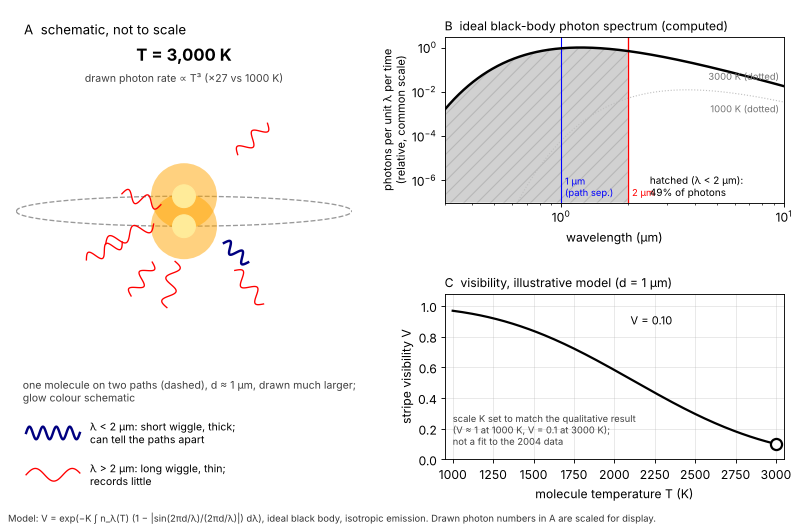
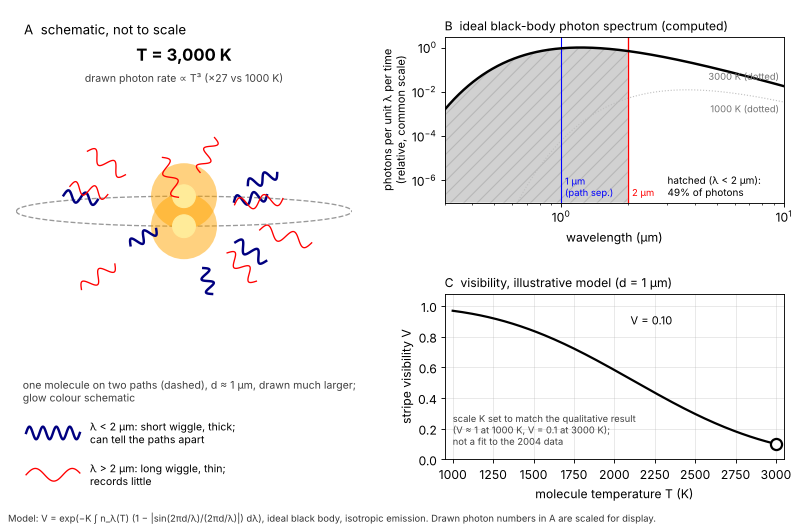
Explanation B (which-path): animations for each experiment
Claude-Session: https://claude.ai/code/session_011EeWx5AEdppYiarvRbDBmd

diff --git a/work/20261008-142932-which-path-decoherence/answer-B.html b/work/20261008-142932-which-path-decoherence/answer-B.html
@@ -27,12 +27,15 @@ strong { color:var(--accent); }
 <p>Nobody has to build a which-path detector: a single photon bouncing off an atom, or a single gas atom brushing past a molecule, writes the record by itself, and that, done by the whole surroundings all the time, is decoherence. Last time the rule was that two parts of the amplitude can only cancel where they end in the same final situation, and that a recorder whose two end states can be told apart puts them in different situations. The experiments below use no recorder at all. The "recorder" is a photon that flies off, a gas atom that drifts away, a flash of heat radiation: things nobody built, nobody reads, and in practice nobody can catch again. The models then have to say what that does to the stripes, and the honest ending is that they say why the stripes go, and not why one dot appears.</p>
 <p><strong>Experiment 1: one photon makes one record (1995).</strong> Set-up: a beam of sodium atoms passes through three identical gratings in a row (slits about 200 nanometres apart). The geometry is different from last time's far screen and from the near-field one of Experiment 2: the first grating splits each atom's wave into two paths that separate slowly, until by the middle grating they are a few hundredths of a millimetre apart, physically side by side; the second grating bends them back together; and in the plane of the third they overlap again and form stripes with the grating's own spacing. The third grating is a mask with that same spacing, so sliding it sideways makes the count of atoms that get through rise and fall (a hot wire ionizes and counts them); that is how the stripes are read. Just after the first grating, where the two paths are still less than a couple of micrometres apart, a thin laser beam tuned to the atoms' yellow resonance (wavelength 589 nanometres) crosses them; atoms absorb photons from the beam and re-emit them in random directions, about one photon per atom on average (the number varies from atom to atom, and some scatter none). Sliding the laser along the beam sets the separation $d$ of the two paths at the moment of scattering, from zero to about two photon wavelengths. Nobody detects the scattered photons. Seen: atoms keep arriving at every laser position, but among those that arrive the stripes' visibility (how deep the stripes are relative to the average: 1 when the dark stripes reach zero, 0 when there are no stripes) falls as $d$ grows, is lowest at separations around half to three-quarters of a photon wavelength, and at larger separations comes partly back and fades again, following the curve set by the overlap of the photon's two possible outgoing waves (computed with the atom's real emission pattern). With exactly one photon per atom the visibility would follow that overlap curve itself, with its zero near half a wavelength; the atoms that scattered no photon keep their full stripes, which lifts the minimum above zero and, in the model, moves it a little beyond half a wavelength. Regained: the atom's sideways recoil is fixed by the direction the photon left in (conservation of momentum) and shifts where the atom arrives, so the arriving atoms can be sorted by recoil; within each sorted group the stripes come back (fully, for a perfect sorting), shifted sideways by an amount set by the recoil, and all the groups together add up to the faded total.</p>
 <p><img alt="Computed for a photon emitted equally in all directions (an idealization) and for exactly one photon per atom: the stripe visibility relative to its value with the laser off, against the separation d of the two paths at the moment of scattering, in units of the photon's wavelength λ, V = |sin(2πd/λ) / (2πd/λ)|. The first zero is at d = λ/2; a weak revival near d ≈ 0.72λ reaches about 0.22, and the later bumps are smaller. Shaded: for d &lt; λ/2 the visibility stays above 0, because a photon whose wavelength is longer than twice the separation cannot fully tell the paths apart. Only the ratio d/λ matters. Inset (schematic, not to scale): the two atom paths a distance d apart, the laser crossing both, and a photon leaving from one path or the other. Two things the plot leaves out: between d = λ/2 and d = λ the overlap is negative, so stripes revived by a single photon are shifted sideways by half a stripe spacing (the plot shows only the size of the overlap); and in the experiment the number of photons per atom varied around a mean of about one, so the atoms that scattered none kept full stripes, which keeps the minimum of the total above zero and, in the model, moves it a little beyond λ/2, to where the one-photon overlap is most negative (about 0.7λ in this isotropic case). An atom's real emission pattern (a dipole pattern) changes the details but not the half-wavelength scale; the 1995 measurements ran from d = 0 to about 2λ." src="figures/b-one-photon.png" /></p>
+<p><img alt="Animation. Experiment 1 (Chapman et al., 1995) as the laser slides along the beam, so the separation d of the two paths at the moment of scattering grows from 0 to 2 photon wavelengths λ. Panel A is a schematic, not to scale: in the real set-up d at the laser is at most about 1.2 µm, while at the middle grating the paths are tens of µm apart. Each new atom scatters a random number of photons (drawn from a Poisson distribution with mean 1, so some atoms scatter none and some several), and nobody detects them. Panels B and C are computed from a simple model: emission equally likely in all directions (the real atom has a dipole pattern, which changes the details but not the half-wavelength scale); each photon multiplies the stripes by the signed overlap c(d) = sin(2πd/λ)/(2πd/λ); the photon number is Poisson with mean 1, which gives a visibility for all arriving atoms of exp(−(1 − c(d))); and the visibility with the laser off is set to 1. The common kick from absorbing laser photons is left out. What to notice: (1) atoms keep arriving and the mean count stays the same; only the stripe depth changes. (2) The total visibility (black) is lowest, about 0.30, at d ≈ 0.72λ, a little beyond λ/2, where the one-photon overlap is most negative. It comes partly back, to about 0.42 near d ≈ 1.23λ, then dips again (about 0.34 near 1.74λ) and settles towards e⁻¹ ≈ 0.37, the share of atoms that scattered no photon and so keep full stripes. It never reaches zero. (3) In panel B, the atoms that scattered exactly one photon (red dashed) have stripes shifted by half a period whenever c(d) is negative (between λ/2 and λ, and again between 1.5λ and 2λ). The total for all atoms is never shifted, because exp(−(1 − c)) is always positive. Only the ratio d/λ matters." src="figures/b-anim-one-photon.gif" /></p>
 <p><em>Sources:</em> Chapman et al., <em>Phys. Rev. Lett.</em> 75, 3783 (1995), "Photon scattering from atoms in an atom interferometer: coherence lost and regained": the experiment; Feynman, Leighton &amp; Sands, <em>The Feynman Lectures on Physics</em>, Vol. III (2010), ch. 1, §1-6 "Watching the electrons": the thought experiment this realizes, including the case of light too long in wavelength to tell the holes apart; Schlosshauer, <em>Decoherence and the Quantum-to-Classical Transition</em> (2007), ch. 6 (experimental observations of decoherence, section on matter-wave interferometry).</p>
 <p><strong>Experiment 2: a gas writes records at a rate you can dial (2003).</strong> Set-up: C70 fullerene molecules (70 carbon atoms, about 840 times the mass of a hydrogen atom) from a hot oven fly through three identical gold gratings with slits about one micrometre apart. The gratings are set at the particular spacing (a few tens of centimetres) at which the molecular wave forms stripes in the plane of the third grating, with the grating's own spacing; the stripes are read by sliding that grating. This "Talbot–Lau" arrangement is a near-field one: the stripes exist at that distance, not on a far screen, and the pairs of paths that make them are about a micrometre apart. Argon (and, in other runs, other gases) is let into the vacuum chamber a little at a time, raising the pressure through a range of a few millionths of a millibar. Nobody detects the gas atoms. Seen: as the pressure rises, fewer molecules reach the detector, and among those that do arrive the stripes fade: the visibility falls exponentially with pressure (each equal step in pressure cuts it by the same factor), in agreement with the rate predicted by Model 1 below. The theory's reading, consistent with the data, is that a single collision is enough to wipe out a molecule's stripes: a gas atom at room temperature has a wavelength of a few hundredths of a nanometre, tens of thousands of times shorter than the micrometre separation, so even a glancing collision, which deflects the heavy molecule only slightly, sends the gas atom off in a state that differs, depending on which path the molecule was on, by far more than the atom's wavelength can blur.</p>
 <p><img alt="Left, computed: stripe visibility relative to its no-collision value, on a logarithmic vertical axis (each gridline is ten times the one below), against the number of scattering events n from 0 to 6, for a per-event overlap c of 0.95, 0.5 and 0.02: V = cⁿ, so the points lie on straight lines; with c = 0.02, six events leave under one ten-billionth of the stripes. Right, computed: the average visibility against gas pressure p in units of the pressure p₀ at which it has fallen to 1/e ≈ 0.37 (dotted line): exp(−p/p₀). The number of collisions a given molecule suffers is random (independent collisions), with a mean proportional to the pressure; with per-collision overlap c the average visibility is exp(−(mean number) × (1 − c)), still an exponential in pressure. No data are drawn; the 2003 argon measurements followed a curve of this shape over a pressure range of a few millionths of a millibar. Notice: many weak recorders do the same as one strong one, and &quot;exponential in pressure&quot; is the fingerprint of independent records multiplying." src="figures/b-many-records.png" /></p>
+<p><img alt="Animation. Experiment 2 (2003), animated: argon is let in step by step, from pressure 0 to 3 p₀ in steps of 0.5 p₀, where p₀ is the pressure at which the stripe visibility has fallen to 1/e. Panel A is a schematic, not to scale. It shows C70 molecules, drawn as dots, flying from the oven through three gratings to the detector. The number of grey argon dots drawn is proportional to the pressure. A star marks a collision. After a collision a molecule either keeps going (open circle: it now carries a record and its stripes are gone) or is knocked out of the beam (cross). The stripes themselves can't be seen in flight. Panels B and C are computed from one stated model. Collisions are independent, so their number is random, with a mean proportional to the pressure (2 per molecule at p₀). One collision is a complete record (overlap 0), and that is the theory's reading of the experiment. In an illustrative assumption, not a measured value, half of all collisions knock the molecule out. With these rules the visibility among the molecules that arrive is exp(−p/p₀), and the arriving fraction also falls as exp(−p/p₀). Panel B shows the count behind the third grating as it is slid sideways, idealized as a sinusoid with period 1 µm and perfect stripes at zero pressure (the real zero-pressure visibility was lower). The solid curve is the actual count. The dash-dot curve divides out the lost molecules, so you can see that the stripes fade among the molecules that do arrive, not just because fewer arrive. Panel C plots visibility against pressure on a logarithmic vertical axis, where the exponential is a straight line: each equal pressure step cuts the visibility by the same factor (about 0.61 per 0.5 p₀). No data are drawn. What to notice: in panel A the arriving molecules that were never hit (filled dots) become rare as the open circles take over, and that fraction is exactly what panel B's stripe depth measures. Nobody detects the gas atoms." src="figures/b-anim-gas.gif" /></p>
 <p><em>Sources:</em> Hornberger et al., <em>Phys. Rev. Lett.</em> 90, 160401 (2003), "Collisional decoherence observed in matter wave interferometry": the experiment; Schlosshauer, <em>Decoherence and the Quantum-to-Classical Transition</em> (2007), ch. 3 "Decoherence Is Everywhere": the scattering theory the data were compared with; Joos et al., <em>Decoherence and the Appearance of a Classical World in Quantum Theory</em>, 2nd ed. (2003), ch. 3.</p>
 <p><strong>Experiment 3: a hot molecule writes its own records (2004), and a merely hot one does not (1999).</strong> Set-up: the same C70 interferometer in good vacuum, with a laser beam crossing the molecular beam repeatedly before the first grating to heat the molecules; the laser power sets their internal temperature, from roughly 1,000 K to about 3,000 K (the temperature is inferred from the laser power with a model of how the molecules absorb and radiate, so these numbers are approximate). A hot molecule glows faintly, like an ember: it emits thermal photons now and then, more of them and at shorter wavelengths the hotter it is. Nobody detects those photons. Seen: at about 1,000 K the stripes are as strong as with the heating laser off; as the temperature is raised the visibility falls, and near 3,000 K the stripes are nearly gone. The reading: a photon that leaves from one path or the other is a record only if its wavelength is short enough to tell the paths apart. A photon with a wavelength much longer than the path separation leaves two outgoing waves that overlap almost completely and records almost nothing; one with a wavelength shorter than about twice the separation removes most of the stripes (at least about three-quarters of them in the idealized model, all of them at particular ratios): the same half-wavelength rule as in Experiment 1. At 1,000 K hardly any emitted photons are that short, and few are emitted at all; by 3,000 K the molecule emits visible and near-infrared photons during its flight, each one a record, and enough of them to wipe out the stripes. Contrast: in 1999, C60 molecules straight from an oven at about 900 K gave clear interference stripes when diffracted by a grating whose slits were 100 nanometres apart. Internal heat by itself is not a record of anything; it becomes one only when something leaves the molecule carrying its position.</p>
 <p><img alt="Left, computed for emission equally likely in all directions (an idealization): the overlap of the two possible outgoing waves of one emitted photon, which equals the fraction of the stripe visibility that survives it, against the photon's wavelength divided by the path separation, λ/d, on a logarithmic axis from 0.2 to 50: |sin(2πd/λ) / (2πd/λ)|. Marked: λ/d = 2 (overlap 0) and λ/d = 20 (overlap about 0.98). In the dark band (λ/d &lt; 2) the overlap is not always zero but never exceeds about 0.22 (the bumps are the revivals of the previous figure), so each such photon removes at least about three-quarters of the stripes; in the light band (λ/d &gt; 10) the photon records almost nothing. Right, the ideal black-body shape, which a molecule's real emission only roughly follows: photons emitted per unit wavelength per unit time, in relative units on one common scale, for 1,000 K, 2,000 K and 3,000 K, against wavelength from 0.3 to 10 micrometres; both axes are logarithmic, which is why the 1,000 K curve, far lower than the others, is still visible. The blue line is the 1-micrometre path separation and the red line the 2-micrometre &quot;half-wavelength&quot; limit. As the temperature rises the emission both grows and shifts to shorter wavelengths: for the ideal black body the share of photons shorter than 2 micrometres is about 2% at 1,000 K, 25% at 2,000 K and about half at 3,000 K, and the total grows too, so the rate of such photons rises about six-hundredfold from 1,000 K to 3,000 K. The 2004 data (visibility against inferred temperature) are not drawn. Notice: heat alone does nothing; photons that leave the molecule with wavelengths shorter than about twice the path separation are what fades the stripes." src="figures/b-hot-molecule.png" /></p>
+<p><img alt="Animation. Experiment 3 (2004), animated: the molecule's temperature rises from 1,000 K to 3,000 K. Panel A is a schematic and not to scale. One molecule travels on two paths about 1 µm apart (drawn much larger), and it glows more strongly as it heats up; the glow colour is only for illustration. It gives off photons, and each photon's wavelength is drawn from the ideal black-body spectrum at the current temperature. Photons shorter than 2 µm are drawn as thick, short, dark-blue wiggles. Longer ones are drawn as thin, long, red wiggles. The number of photons drawn grows as T³, the total black-body photon rate (27 times more at 3,000 K than at 1,000 K), but it is scaled for display: a real molecule emits only a few photons during its flight. Panel B is computed: the ideal black-body photon-number spectrum at the current temperature, on log axes and on one common scale, with the dotted 1,000 K and 3,000 K curves for reference, a blue line at the 1 µm path separation and a red line at the 2 µm &quot;half-wavelength&quot; limit. The hatched part is the photons shorter than 2 µm: about 2% of them at 1,000 K, 25% at 2,000 K and 49% at 3,000 K, and their total rate grows about 600-fold. Panel C uses an illustrative model, not a fit to the 2004 data. It sets visibility V = exp(−K ∫ n_λ(T)(1 − |sin(2πd/λ)/(2πd/λ)|) dλ), with d = 1 µm, an ideal black body, emission equally likely in every direction, and photons emitted independently. The scale K is chosen so that V = 0.10 at 3,000 K, which gives V ≈ 0.97 at 1,000 K and about 0.58 at 2,000 K. A real molecule's emission only roughly follows the black-body shape, and the temperatures in the experiment are inferred, so only the trend is meaningful. What to notice: the stripes stay at 1,000 K even though the molecule is hot, because almost none of its photons are short enough to tell the paths apart. They fade as the hatched short-wavelength part of the spectrum grows, and in panel A the dark-blue &quot;record&quot; photons become common." src="figures/b-anim-hot-molecule.gif" /></p>
 <p><em>Sources:</em> Hackermüller et al., <em>Nature</em> 427, 711 (2004), "Decoherence of matter waves by thermal emission of radiation": the experiment; Arndt et al., <em>Nature</em> 401, 680 (1999): C60 interference straight from the oven; Feynman, Leighton &amp; Sands, <em>The Feynman Lectures on Physics</em>, Vol. III (2010), ch. 1, §1-6 "Watching the electrons": why long-wavelength light leaves the stripes alone; Schlosshauer, <em>Decoherence and the Quantum-to-Classical Transition</em> (2007), ch. 6 (experimental observations, section on matter-wave interferometry).</p>
 <p><strong>An estimate, not an experiment: a grain of dust.</strong> No one has put a dust grain through two slits, so this is a calculation with stated assumptions, first made by Joos and Zeh in 1985. Take a grain ten micrometres across and ask how long stripes between two positions one grain-width apart would survive. Each air molecule or photon that scatters off the grain is a recorder like the ones above, and whether one scattering resolves ten micrometres depends on its wavelength. Air molecules (wavelength a few hundredths of a nanometre) and sunlight (about half a micrometre) resolve it easily, so one scattering is a complete record and the fading time is just the time between scatterings. In sea-level air at room temperature a ten-micrometre grain is struck about $10^{18}$ times per second (counting impacts on its surface), so the stripes would be gone within about a billionth of a billionth of a second; in full sunlight with no air, about $4 \times 10^{11}$ photons per second hit it, and the time is a few millionths of a millionth of a second. Even the faint microwave glow left over from the big bang does it, in about forty seconds for this grain: its millimetre wavelength is far too long for any one photon to resolve ten micrometres, almost all of its photons pass a grain that small without scattering at all (in the model, about ten a second do scatter), and each one that scatters makes only a few thousandths of a full record (about one part in four hundred), but the small records multiply up: a few hundred of them, forty seconds' worth, add up to a full one. (The often-quoted "about a second" is Joos and Zeh's figure for a grain twice as wide, which scatters millimetre waves far more strongly.) Assumptions: a grain of that size in those surroundings, scatterings counted as independent, and the long-wavelength rule (fading rate growing as the square of the separation) used only where the wavelength is longer than the separation; beyond that the rate stops growing and simply equals the scattering rate. These numbers are rough, factors of ten either way, and they are why nobody expects to see a dust grain's stripes.</p>
 <p><img alt="Computed for scatterers that scatter equally in all directions (an idealization), with their wavelengths spread ±30% around λ to smooth the oscillations: the time for stripes between two positions Δx apart to fade (to 1/e of their strength), in units of the average time between scattering events, against Δx/λ, both axes logarithmic. On the flat part (Δx above about λ/2) one scattering event is a complete record and the fading time is one event time; on the sloped part each event records only a little and the time grows as (λ/Δx)² (dashed reference line). Two details to notice: the solid curve runs about 9% below the dashed line because the wavelength spread was averaged in, and it dips to about 0.87 event times near Δx ≈ 0.7λ before settling at 1. Marks for a ten-micrometre separation: sunlight at Δx/λ ≈ 20, air molecules far off the right edge at ≈ 5 × 10⁵ (arrow), and the microwave background at Δx/λ ≈ 0.02 (the mark is at 0.019, where the curve reads about 380 events, the number the full calculation needs: about ten scatterings per second for forty seconds). For 1-mm waves the naive position would be Δx/λ = 0.01, where the curve reads about 1,400; the full calculation needs fewer events for two reasons this one-wavelength, one-direction curve leaves out: the shorter waves in the microwave glow do most of the scattering (their effective wavelength is about 0.7 mm), and its photons come from all directions, which doubles what each scattering records. The times in the text are the number of events multiplied by each environment's own time between scattering events; for the microwave background that time (about a tenth of a second) is set by how rarely a millimetre wave scatters off a ten-micrometre grain, not by how often photons reach it." src="figures/b-dust-grain.png" /></p>

diff --git a/work/20261008-142932-which-path-decoherence/final-B.md b/work/20261008-142932-which-path-decoherence/final-B.md
@@ -6,17 +6,23 @@ Nobody has to build a which-path detector: a single photon bouncing off an atom,
 
 ![Computed for a photon emitted equally in all directions (an idealization) and for exactly one photon per atom: the stripe visibility relative to its value with the laser off, against the separation d of the two paths at the moment of scattering, in units of the photon's wavelength λ, V = |sin(2πd/λ) / (2πd/λ)|. The first zero is at d = λ/2; a weak revival near d ≈ 0.72λ reaches about 0.22, and the later bumps are smaller. Shaded: for d < λ/2 the visibility stays above 0, because a photon whose wavelength is longer than twice the separation cannot fully tell the paths apart. Only the ratio d/λ matters. Inset (schematic, not to scale): the two atom paths a distance d apart, the laser crossing both, and a photon leaving from one path or the other. Two things the plot leaves out: between d = λ/2 and d = λ the overlap is negative, so stripes revived by a single photon are shifted sideways by half a stripe spacing (the plot shows only the size of the overlap); and in the experiment the number of photons per atom varied around a mean of about one, so the atoms that scattered none kept full stripes, which keeps the minimum of the total above zero and, in the model, moves it a little beyond λ/2, to where the one-photon overlap is most negative (about 0.7λ in this isotropic case). An atom's real emission pattern (a dipole pattern) changes the details but not the half-wavelength scale; the 1995 measurements ran from d = 0 to about 2λ.](figures/b-one-photon.png)
 
+![Animation. Experiment 1 (Chapman et al., 1995) as the laser slides along the beam, so the separation d of the two paths at the moment of scattering grows from 0 to 2 photon wavelengths λ. Panel A is a schematic, not to scale: in the real set-up d at the laser is at most about 1.2 µm, while at the middle grating the paths are tens of µm apart. Each new atom scatters a random number of photons (drawn from a Poisson distribution with mean 1, so some atoms scatter none and some several), and nobody detects them. Panels B and C are computed from a simple model: emission equally likely in all directions (the real atom has a dipole pattern, which changes the details but not the half-wavelength scale); each photon multiplies the stripes by the signed overlap c(d) = sin(2πd/λ)/(2πd/λ); the photon number is Poisson with mean 1, which gives a visibility for all arriving atoms of exp(−(1 − c(d))); and the visibility with the laser off is set to 1. The common kick from absorbing laser photons is left out. What to notice: (1) atoms keep arriving and the mean count stays the same; only the stripe depth changes. (2) The total visibility (black) is lowest, about 0.30, at d ≈ 0.72λ, a little beyond λ/2, where the one-photon overlap is most negative. It comes partly back, to about 0.42 near d ≈ 1.23λ, then dips again (about 0.34 near 1.74λ) and settles towards e⁻¹ ≈ 0.37, the share of atoms that scattered no photon and so keep full stripes. It never reaches zero. (3) In panel B, the atoms that scattered exactly one photon (red dashed) have stripes shifted by half a period whenever c(d) is negative (between λ/2 and λ, and again between 1.5λ and 2λ). The total for all atoms is never shifted, because exp(−(1 − c)) is always positive. Only the ratio d/λ matters.](figures/b-anim-one-photon.gif)
+
 *Sources:* Chapman et al., *Phys. Rev. Lett.* 75, 3783 (1995), "Photon scattering from atoms in an atom interferometer: coherence lost and regained": the experiment; Feynman, Leighton & Sands, *The Feynman Lectures on Physics*, Vol. III (2010), ch. 1, §1-6 "Watching the electrons": the thought experiment this realizes, including the case of light too long in wavelength to tell the holes apart; Schlosshauer, *Decoherence and the Quantum-to-Classical Transition* (2007), ch. 6 (experimental observations of decoherence, section on matter-wave interferometry).
 
 **Experiment 2: a gas writes records at a rate you can dial (2003).** Set-up: C70 fullerene molecules (70 carbon atoms, about 840 times the mass of a hydrogen atom) from a hot oven fly through three identical gold gratings with slits about one micrometre apart. The gratings are set at the particular spacing (a few tens of centimetres) at which the molecular wave forms stripes in the plane of the third grating, with the grating's own spacing; the stripes are read by sliding that grating. This "Talbot–Lau" arrangement is a near-field one: the stripes exist at that distance, not on a far screen, and the pairs of paths that make them are about a micrometre apart. Argon (and, in other runs, other gases) is let into the vacuum chamber a little at a time, raising the pressure through a range of a few millionths of a millibar. Nobody detects the gas atoms. Seen: as the pressure rises, fewer molecules reach the detector, and among those that do arrive the stripes fade: the visibility falls exponentially with pressure (each equal step in pressure cuts it by the same factor), in agreement with the rate predicted by Model 1 below. The theory's reading, consistent with the data, is that a single collision is enough to wipe out a molecule's stripes: a gas atom at room temperature has a wavelength of a few hundredths of a nanometre, tens of thousands of times shorter than the micrometre separation, so even a glancing collision, which deflects the heavy molecule only slightly, sends the gas atom off in a state that differs, depending on which path the molecule was on, by far more than the atom's wavelength can blur.
 
 ![Left, computed: stripe visibility relative to its no-collision value, on a logarithmic vertical axis (each gridline is ten times the one below), against the number of scattering events n from 0 to 6, for a per-event overlap c of 0.95, 0.5 and 0.02: V = cⁿ, so the points lie on straight lines; with c = 0.02, six events leave under one ten-billionth of the stripes. Right, computed: the average visibility against gas pressure p in units of the pressure p₀ at which it has fallen to 1/e ≈ 0.37 (dotted line): exp(−p/p₀). The number of collisions a given molecule suffers is random (independent collisions), with a mean proportional to the pressure; with per-collision overlap c the average visibility is exp(−(mean number) × (1 − c)), still an exponential in pressure. No data are drawn; the 2003 argon measurements followed a curve of this shape over a pressure range of a few millionths of a millibar. Notice: many weak recorders do the same as one strong one, and "exponential in pressure" is the fingerprint of independent records multiplying.](figures/b-many-records.png)
 
+![Animation. Experiment 2 (2003), animated: argon is let in step by step, from pressure 0 to 3 p₀ in steps of 0.5 p₀, where p₀ is the pressure at which the stripe visibility has fallen to 1/e. Panel A is a schematic, not to scale. It shows C70 molecules, drawn as dots, flying from the oven through three gratings to the detector. The number of grey argon dots drawn is proportional to the pressure. A star marks a collision. After a collision a molecule either keeps going (open circle: it now carries a record and its stripes are gone) or is knocked out of the beam (cross). The stripes themselves can't be seen in flight. Panels B and C are computed from one stated model. Collisions are independent, so their number is random, with a mean proportional to the pressure (2 per molecule at p₀). One collision is a complete record (overlap 0), and that is the theory's reading of the experiment. In an illustrative assumption, not a measured value, half of all collisions knock the molecule out. With these rules the visibility among the molecules that arrive is exp(−p/p₀), and the arriving fraction also falls as exp(−p/p₀). Panel B shows the count behind the third grating as it is slid sideways, idealized as a sinusoid with period 1 µm and perfect stripes at zero pressure (the real zero-pressure visibility was lower). The solid curve is the actual count. The dash-dot curve divides out the lost molecules, so you can see that the stripes fade among the molecules that do arrive, not just because fewer arrive. Panel C plots visibility against pressure on a logarithmic vertical axis, where the exponential is a straight line: each equal pressure step cuts the visibility by the same factor (about 0.61 per 0.5 p₀). No data are drawn. What to notice: in panel A the arriving molecules that were never hit (filled dots) become rare as the open circles take over, and that fraction is exactly what panel B's stripe depth measures. Nobody detects the gas atoms.](figures/b-anim-gas.gif)
+
 *Sources:* Hornberger et al., *Phys. Rev. Lett.* 90, 160401 (2003), "Collisional decoherence observed in matter wave interferometry": the experiment; Schlosshauer, *Decoherence and the Quantum-to-Classical Transition* (2007), ch. 3 "Decoherence Is Everywhere": the scattering theory the data were compared with; Joos et al., *Decoherence and the Appearance of a Classical World in Quantum Theory*, 2nd ed. (2003), ch. 3.
 
 **Experiment 3: a hot molecule writes its own records (2004), and a merely hot one does not (1999).** Set-up: the same C70 interferometer in good vacuum, with a laser beam crossing the molecular beam repeatedly before the first grating to heat the molecules; the laser power sets their internal temperature, from roughly 1,000 K to about 3,000 K (the temperature is inferred from the laser power with a model of how the molecules absorb and radiate, so these numbers are approximate). A hot molecule glows faintly, like an ember: it emits thermal photons now and then, more of them and at shorter wavelengths the hotter it is. Nobody detects those photons. Seen: at about 1,000 K the stripes are as strong as with the heating laser off; as the temperature is raised the visibility falls, and near 3,000 K the stripes are nearly gone. The reading: a photon that leaves from one path or the other is a record only if its wavelength is short enough to tell the paths apart. A photon with a wavelength much longer than the path separation leaves two outgoing waves that overlap almost completely and records almost nothing; one with a wavelength shorter than about twice the separation removes most of the stripes (at least about three-quarters of them in the idealized model, all of them at particular ratios): the same half-wavelength rule as in Experiment 1. At 1,000 K hardly any emitted photons are that short, and few are emitted at all; by 3,000 K the molecule emits visible and near-infrared photons during its flight, each one a record, and enough of them to wipe out the stripes. Contrast: in 1999, C60 molecules straight from an oven at about 900 K gave clear interference stripes when diffracted by a grating whose slits were 100 nanometres apart. Internal heat by itself is not a record of anything; it becomes one only when something leaves the molecule carrying its position.
 
 ![Left, computed for emission equally likely in all directions (an idealization): the overlap of the two possible outgoing waves of one emitted photon, which equals the fraction of the stripe visibility that survives it, against the photon's wavelength divided by the path separation, λ/d, on a logarithmic axis from 0.2 to 50: |sin(2πd/λ) / (2πd/λ)|. Marked: λ/d = 2 (overlap 0) and λ/d = 20 (overlap about 0.98). In the dark band (λ/d < 2) the overlap is not always zero but never exceeds about 0.22 (the bumps are the revivals of the previous figure), so each such photon removes at least about three-quarters of the stripes; in the light band (λ/d > 10) the photon records almost nothing. Right, the ideal black-body shape, which a molecule's real emission only roughly follows: photons emitted per unit wavelength per unit time, in relative units on one common scale, for 1,000 K, 2,000 K and 3,000 K, against wavelength from 0.3 to 10 micrometres; both axes are logarithmic, which is why the 1,000 K curve, far lower than the others, is still visible. The blue line is the 1-micrometre path separation and the red line the 2-micrometre "half-wavelength" limit. As the temperature rises the emission both grows and shifts to shorter wavelengths: for the ideal black body the share of photons shorter than 2 micrometres is about 2% at 1,000 K, 25% at 2,000 K and about half at 3,000 K, and the total grows too, so the rate of such photons rises about six-hundredfold from 1,000 K to 3,000 K. The 2004 data (visibility against inferred temperature) are not drawn. Notice: heat alone does nothing; photons that leave the molecule with wavelengths shorter than about twice the path separation are what fades the stripes.](figures/b-hot-molecule.png)
+
+![Animation. Experiment 3 (2004), animated: the molecule's temperature rises from 1,000 K to 3,000 K. Panel A is a schematic and not to scale. One molecule travels on two paths about 1 µm apart (drawn much larger), and it glows more strongly as it heats up; the glow colour is only for illustration. It gives off photons, and each photon's wavelength is drawn from the ideal black-body spectrum at the current temperature. Photons shorter than 2 µm are drawn as thick, short, dark-blue wiggles. Longer ones are drawn as thin, long, red wiggles. The number of photons drawn grows as T³, the total black-body photon rate (27 times more at 3,000 K than at 1,000 K), but it is scaled for display: a real molecule emits only a few photons during its flight. Panel B is computed: the ideal black-body photon-number spectrum at the current temperature, on log axes and on one common scale, with the dotted 1,000 K and 3,000 K curves for reference, a blue line at the 1 µm path separation and a red line at the 2 µm "half-wavelength" limit. The hatched part is the photons shorter than 2 µm: about 2% of them at 1,000 K, 25% at 2,000 K and 49% at 3,000 K, and their total rate grows about 600-fold. Panel C uses an illustrative model, not a fit to the 2004 data. It sets visibility V = exp(−K ∫ n_λ(T)(1 − |sin(2πd/λ)/(2πd/λ)|) dλ), with d = 1 µm, an ideal black body, emission equally likely in every direction, and photons emitted independently. The scale K is chosen so that V = 0.10 at 3,000 K, which gives V ≈ 0.97 at 1,000 K and about 0.58 at 2,000 K. A real molecule's emission only roughly follows the black-body shape, and the temperatures in the experiment are inferred, so only the trend is meaningful. What to notice: the stripes stay at 1,000 K even though the molecule is hot, because almost none of its photons are short enough to tell the paths apart. They fade as the hatched short-wavelength part of the spectrum grows, and in panel A the dark-blue "record" photons become common.](figures/b-anim-hot-molecule.gif)
 
 *Sources:* Hackermüller et al., *Nature* 427, 711 (2004), "Decoherence of matter waves by thermal emission of radiation": the experiment; Arndt et al., *Nature* 401, 680 (1999): C60 interference straight from the oven; Feynman, Leighton & Sands, *The Feynman Lectures on Physics*, Vol. III (2010), ch. 1, §1-6 "Watching the electrons": why long-wavelength light leaves the stripes alone; Schlosshauer, *Decoherence and the Quantum-to-Classical Transition* (2007), ch. 6 (experimental observations, section on matter-wave interferometry).
 

diff --git a/work/20261008-142932-which-path-decoherence/figures/b-anim-hot-molecule.caption.md b/work/20261008-142932-which-path-decoherence/figures/b-anim-hot-molecule.caption.md
@@ -1,0 +1,1 @@
+Experiment 3 (2004), animated: the molecule's temperature rises from 1,000 K to 3,000 K. Panel A is a schematic and not to scale. One molecule travels on two paths about 1 µm apart (drawn much larger), and it glows more strongly as it heats up; the glow colour is only for illustration. It gives off photons, and each photon's wavelength is drawn from the ideal black-body spectrum at the current temperature. Photons shorter than 2 µm are drawn as thick, short, dark-blue wiggles. Longer ones are drawn as thin, long, red wiggles. The number of photons drawn grows as T³, the total black-body photon rate (27 times more at 3,000 K than at 1,000 K), but it is scaled for display: a real molecule emits only a few photons during its flight. Panel B is computed: the ideal black-body photon-number spectrum at the current temperature, on log axes and on one common scale, with the dotted 1,000 K and 3,000 K curves for reference, a blue line at the 1 µm path separation and a red line at the 2 µm "half-wavelength" limit. The hatched part is the photons shorter than 2 µm: about 2% of them at 1,000 K, 25% at 2,000 K and 49% at 3,000 K, and their total rate grows about 600-fold. Panel C uses an illustrative model, not a fit to the 2004 data. It sets visibility V = exp(−K ∫ n_λ(T)(1 − |sin(2πd/λ)/(2πd/λ)|) dλ), with d = 1 µm, an ideal black body, emission equally likely in every direction, and photons emitted independently. The scale K is chosen so that V = 0.10 at 3,000 K, which gives V ≈ 0.97 at 1,000 K and about 0.58 at 2,000 K. A real molecule's emission only roughly follows the black-body shape, and the temperatures in the experiment are inferred, so only the trend is meaningful. What to notice: the stripes stay at 1,000 K even though the molecule is hot, because almost none of its photons are short enough to tell the paths apart. They fade as the hatched short-wavelength part of the spectrum grows, and in panel A the dark-blue "record" photons become common.
